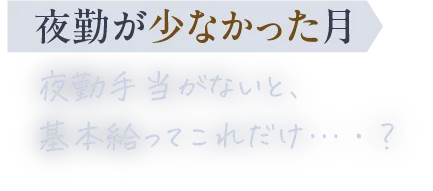
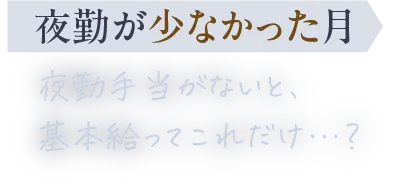
Update client review images and synchronize accessible text

diff --git a/index.html b/index.html
@@ -30,14 +30,14 @@
 
     <!-- 受講生の声：横スクロール / ボタン操作 -->
     <section class="voice" aria-label="仕事を辞めずに、お休みの日から始めた先輩たち">
-      <img src="img/section-02.webp" width="851" height="1694" loading="lazy" alt="実際に、仕事を辞めずにお休みの日から始めた先輩たち">
+      <img src="img/section-02.webp?v=60adb126cd" width="851" height="1694" loading="lazy" alt="実際に、仕事を辞めずにお休みの日から始めた先輩たち">
       <ul class="voice-list" id="voice-list" tabindex="0" aria-label="受講生の声。左右にスクロールできます">
-        <li><img src="img/voice-s1.webp" width="664" height="911" loading="lazy"
+        <li><img src="img/voice-s1.webp?v=dc672df695" width="664" height="911" loading="lazy"
             alt="M.Sさん・40代。看護師歴18年、美容未経験。辞める勇気はなかった。だから、休みの日だけ始めました。病院はそのまま、休日の施術で。施術は月約2回、月収プラス8万円。"></li>
         <li><img src="img/voice-s2.webp" width="664" height="911" loading="lazy"
-            alt="K.Tさん・40代。看護師歴15年、美容未経験。子どもが生まれて、夜勤のないクリニックへ。減った分だけ、土曜日だけの私に。土曜だけの施術で。施術は月約4回、月収プラス12万円。"></li>
-        <li><img src="img/voice-s3.webp" width="664" height="911" loading="lazy"
-            alt="Y.Hさん・50代。看護師歴28年、美容未経験。夜勤はもう体力的に限界だった。50代でも、手に職でもう少しだけ増やせました。訪問看護はそのまま、休日の施術で。施術は月約2回、月収プラス10万円。">
+            alt="K.Tさん・40代。看護師歴15年、美容未経験。子どもが生まれて、夜勤のないクリニックへ。減った分を、土曜日だけでカバー。土曜だけの施術で。施術は月約4回、月収プラス12万円。"></li>
+        <li><img src="img/voice-s3.webp?v=ae3e3c0481" width="664" height="911" loading="lazy"
+            alt="U.Mさん・50代。北海道、訪問看護。看護師歴28年、美容未経験。夜勤はもう体力的に限界だった。50代でも、手に職がもうひとつ増えました。夜勤がつらくなり訪問看護へ。収入は月5万円ダウン。訪問看護はそのまま、休日の施術で。施術は月約2回、月収プラス10万円。">
         </li>
       </ul>
       <div class="voice-nav" hidden>
@@ -59,17 +59,17 @@
           <img src="img/offer-img1.webp" width="851" height="868" loading="lazy"
             alt="メリット1：たっぷり60分なんでも相談。看護師の収入アップに特化したコーチング。収入・働き方・始め方・不安なことまで、あなたの状況に合わせてじっくり相談できます。">
           <div class="sparkle">
-            <img src="img/offer-img2.webp" width="851" height="642" loading="lazy"
-              alt="メリット2：あなたの働き方×収入上げ方を無料診断。今の勤務状況や休日の日数などから、あなたに合った副業の進め方を診断。">
+            <img src="img/offer-img2.webp?v=556deb02f5" width="851" height="642" loading="lazy"
+              alt="メリット2：あなたの働き方×収入の上げ方を無料診断。今の勤務状況や休日の日数などから、あなたに合った副業の進め方を診断。">
             <img class="kira" src="img/kira.webp" width="851" height="643" loading="lazy" alt="" aria-hidden="true">
           </div>
         </div>
       </div>
       <div class="offer-end">
-        <img src="img/offer_03.webp" width="851" height="1449" loading="lazy"
-          alt="美容知識や経験なくても大丈夫！ アートメイクで働くのに必要なのは看護師の国家資格のみ！ 看護師の受講者数1,600人突破。個別面談は、その場で決めなくてもOK、話を聞くだけでもOK、選択肢を知るだけでもOK。勧誘なし、顔出し不要、平日夜・土日OK。">
+        <img src="img/offer_03.webp?v=cbe64580e0" width="851" height="1449" loading="lazy"
+          alt="美容の知識や経験がなくても大丈夫！ アートメイクで働くのに必要なのは看護師の国家資格のみ！ 看護師の受講生数1,600人突破。個別相談は、その場で決めなくてもOK、話を聞くだけでもOK、選択肢を知るだけでもOK。勧誘なし、顔出し不要、平日夜・土日OK。">
         <a class="cta offer-cta" data-link="line" role="link" aria-disabled="true"><img src="img/offer1-cta.webp"
-            width="837" height="321" loading="lazy" alt="無料の個別相談の参加特典。LINEで事例集を受け取る"></a>
+            width="865" height="273" loading="lazy" alt="無料の個別相談の参加特典。LINEで事例集を受け取る"></a>
       </div>
     </section>
 
@@ -79,9 +79,9 @@
         alt="これまでを、振り返ってみてください。毎日、ちゃんと頑張っているのに。看護師の仕事は、きらいじゃない。でも、このままでいいのかな…。">
       <img class="text text1" src="img/section-03-txt1.webp" width="415" height="192" loading="lazy"
         alt="夜勤明けの帰り道。出勤する人とすれ違うの、なんか辛い…。">
-      <img class="text text2" src="img/section-03-txt2.webp" width="433" height="191" loading="lazy"
+      <img class="text text2" src="img/section-03-txt2.webp?v=46cf5f9787" width="398" height="191" loading="lazy"
         alt="夜勤が少なかった月。夜勤手当がないと、基本給ってこれだけ…？">
-      <img class="text text3" src="img/section-03-txt3.webp" width="431" height="188" loading="lazy"
+      <img class="text text3" src="img/section-03-txt3.webp?v=a779238d04" width="431" height="188" loading="lazy"
         alt="子どもと過ごす休みの日。疲れすぎて、子どもに優しくできない…。">
       <img class="text text4" src="img/section-03-txt4.webp" width="479" height="191" loading="lazy"
         alt="定時を過ぎた記録と書類。これ以上、働く時間を増やすのは難しい…。">
@@ -90,8 +90,8 @@
     </section>
 
     <section class="section income" aria-label="看護師の収入について">
-      <img class="base" src="img/section-04.webp" width="851" height="1949" loading="lazy"
-        alt="でも、そう思っているのはアナタの努力不足ではないんです。実は、看護師の収入は、経験を重ねても大きく伸ばしにくい傾向があります。しかもこの金額には夜勤手当や残業代も含まれています。">
+      <img class="base" src="img/section-04.webp?v=65641fa062" width="851" height="1949" loading="lazy"
+        alt="でも、そう感じてしまうのはあなたの努力不足のせいではないんです。実は、看護師の収入は、経験を重ねても大きく伸ばしにくい傾向があります。しかもこの金額には夜勤手当や残業代も含まれています。">
     </section>
 
     <section class="section methods" aria-label="収入アップの方法を考えている方へ">
@@ -100,7 +100,7 @@
     </section>
 
     <section class="section message" aria-label="BIBI MAKE.代表講師からのメッセージ">
-      <img class="base" src="img/section-06.webp" width="851" height="2036" loading="lazy"
+      <img class="base" src="img/section-06.webp?v=9883cf9899" width="851" height="2036" loading="lazy"
         alt="看護師なら資格を活かした副業1択。そこで、その資格を一番活かせる場所がBIBI MAKE. 看護師のためのアートメイクスクール。看護師資格をもうひとつの収入に変える！ BIBI MAKE.代表講師CHISATO。看護師の皆さんが、もっと自由に輝ける場所をつくりたくて、BIBI MAKE.を立ち上げました。">
     </section>
 
@@ -111,12 +111,12 @@
         alt="01 施術できるのは医師と看護師だけ！ アートメイクは医療行為。資格のない人は、この仕事ができません。">
       <img class="card card2" src="img/section-07_01-img2.webp" width="796" height="335" loading="lazy"
         alt="02 美容未経験からでも始められる。必要なのは看護師資格と身につける技術。最短2日で技術習得！">
-      <img class="card card3" src="img/section-07_01-img3.webp" width="796" height="345" loading="lazy"
-        alt="03 1回の施術料が大きい。施術相場は1回約6万円〜。短い時間でもしっかり収入になります。">
+      <img class="card card3" src="img/section-07_01-img3.webp?v=280e6e866c" width="796" height="345" loading="lazy"
+        alt="03 1回の施術料が大きい。施術相場は1回6万円〜。短い時間でもしっかり収入になります。">
     </section>
 
     <section class="section lesson" aria-label="講習の様子と無料相談">
-      <img class="base" src="img/section-07_02.webp" width="851" height="2012" loading="lazy"
+      <img class="base" src="img/section-07_02.webp?v=a5754c5218" width="851" height="2012" loading="lazy"
         alt="まずは、講習の様子を見てください。『最初は詐欺だと思った』という先輩も、この動画を見て、安心してくれました。TOKYO MXで紹介されました！ 2024年7月13日土曜日放送分。東京サロン見学OK。実際の施術環境や雰囲気をご自身で確認できます。">
       <div class="lesson-video">
         <video controls autoplay muted loop playsinline preload="metadata" aria-label="BIBI MAKE. 実際の講習風景">
@@ -132,8 +132,8 @@
 
     <!-- 選ばれる理由 / 3つの自由 / お客様の変化 -->
     <section class="section features" id="features" aria-label="BIBI MAKE.が選ばれる理由">
-      <img class="base" src="img/section-08.webp" width="851" height="3193" loading="lazy"
-        alt="BIBI MAKE.が選ばれる理由。技術だけじゃない。稼ぐ力まで、身に付く。施術の技術と、お客さまに選ばれるための力をセットで教えます。01 独自の技法B-BROW®。02 SNSの配信サポート、集客・マーケティング指導、毎月の事業者向け研修。03 LINEでのデザイン添削、不安なところの再受講、施術できる提携クリニックの紹介まで。">
+      <img class="base" src="img/section-08.webp?v=ccda743fb0" width="851" height="3193" loading="lazy"
+        alt="BIBI MAKE.が選ばれる理由。技術だけじゃない。稼ぐ力まで、身につける。施術の技術と、お客さまに選ばれるための力をセットで教えます。01 独自の技法B-BROW®。02 SNSの配信サポート、集客・マーケティング指導、毎月の事業者向け研修。03 LINEでのデザイン添削、不安なところの再受講、施術できる提携クリニックの紹介まで。">
       <img class="title title1" src="img/section-08-txt1.webp" width="580" height="129" loading="lazy"
         alt="世界でBIBI MAKE.だけの技法">
       <img class="title title2" src="img/section-08-txt2.webp" width="404" height="193" loading="lazy"
@@ -143,36 +143,36 @@
     </section>
 
     <section class="section freedom" aria-label="その先にある3つの自由">
-      <img class="base" src="img/section-09.webp" width="851" height="1445" loading="lazy"
+      <img class="base" src="img/section-09.webp?v=aed3006ffb" width="851" height="1445" loading="lazy"
         alt="その先に、あるのは3つの自由。01 時間の自由！ いつ・どれだけ働くかを自分で決められる。02 お金の自由！ お給料とは別に、自分で稼げる収入がもう1本。03 心の自由！ すり減らさずに、選ばれる喜びを感じながら働ける。仕事はそのまま。でも、選べる未来は増えていく。">
     </section>
 
-    <section class="section customer" aria-label="眉ひとつで変わるお客様の毎日">
-      <img class="base" src="img/section-10_01.webp" width="851" height="1364" loading="lazy"
-        alt="心から『ありがとう』をもらえる。眉ひとつで、お客様の毎日が変わる！ 実は、眉に悩みがある人は約2人に1人。眉の形、眉の量、メイクの手間。毎朝の悩みになっています。眉は、毎日のメイクでいちばん悩みが多いパーツ。だからこそ、アートメイクの技術が求められているんです。">
+    <section class="section customer" aria-label="眉ひとつで変わるお客さまの毎日">
+      <img class="base" src="img/section-10_01.webp?v=af0569bf67" width="851" height="1364" loading="lazy"
+        alt="心から『ありがとう』をもらえる。眉ひとつで、お客さまの毎日が変わる！ 実は、眉に悩みがある人は約2人に1人。眉の形、眉の量、メイクの手間。毎朝の悩みになっています。眉は、毎日のメイクでいちばん悩みが多いパーツ。だからこそ、アートメイクの技術が求められているんです。">
     </section>
 
-    <section class="section result" aria-label="お客様からのありがとうを、心も体も前向きに">
-      <img class="base" src="img/section-10_02.webp" width="851" height="2341" loading="lazy"
-        alt="眉が変わるだけで、顔全体がぱっと垢抜ける。印象の薄かった眉毛が、すっぴんでも浮かないナチュラル眉毛に。毎朝の眉メイクに悩まなくていい。すっぴんでも、汗をかいても、きれいな眉のまま。小さな変化が、お客さまの自信になります。お客様からの『ありがとう！』を、心も体も前向きに！ 心も体も前向きにする仕事を、もうひとつ。">
-      <a class="cta result-cta" data-link="consult" role="link" aria-disabled="true"><img src="img/cta-3.webp"
-          width="837" height="316" loading="lazy" alt="お客様に、心から寄り添える。眉毛も傷あとカバーも学べる。学べることを聞いてみる"></a>
+    <section class="section result" aria-label="お客さまからのありがとうを、心も体も前向きに">
+      <img class="base" src="img/section-10_02.webp?v=736f67e1e4" width="851" height="2341" loading="lazy"
+        alt="眉が変わるだけで、顔全体がぱっと垢抜ける。印象の薄かった眉毛が、すっぴんでも浮かないナチュラル眉毛に。毎朝の眉メイクに悩まなくていい。すっぴんでも、汗をかいても、きれいな眉のまま。小さな変化が、お客さまの自信になります。お客さまからの『ありがとう！』を、心も体も前向きに！ 心も体も前向きにする仕事を、もうひとつ。">
+      <a class="cta result-cta" data-link="consult" role="link" aria-disabled="true"><img src="img/cta-3.webp?v=27dafe0835"
+          width="836" height="316" loading="lazy" alt="お客さまに、心から喜ばれる。眉毛も傷あとカバーも学べる。学べることを聞いてみる"></a>
     </section>
 
     <!-- 仲間のサポート / デビューまで / 先輩の体験記 -->
     <section class="section support" id="support" aria-label="あなたをひとりにしないサポート">
-      <img class="base" src="img/section-11.webp" width="851" height="1875" loading="lazy"
-        alt="BIBI MAKE. あなたをひとりにしない！ 一緒に学ぶのは、みんな同じ看護師さん。夜勤のしんどさも、現場の悩みも、言わなくてもわかり合える仲間です。一緒に頑張る仲間がいる。分からない事も不安な時も、LINEでいつでも聞けます。先生への相談、施術写真の添削、看護師仲間のグループ。">
+      <img class="base" src="img/section-11.webp?v=f59c8489a6" width="851" height="1875" loading="lazy"
+        alt="BIBI MAKE. あなたをひとりにしない！ 一緒に学ぶのは、みんな同じ看護師さん。夜勤のしんどさも、現場の悩みも、言わなくてもわかり合える仲間です。一緒に頑張る仲間がいる。わからない時も不安な時も、LINEでいつでも聞けます。先生への相談、施術写真の添削、看護師仲間のグループ。">
     </section>
 
     <section class="section roadmap" aria-label="はじめてからデビューするまでの5つのステップ">
       <img class="base" src="img/section-12_01.webp" width="851" height="2766" loading="lazy"
         alt="自分のペースで進める。はじめてからデビューするまで。早くデビューする方も、じっくり進める方も。ペースは、あなたに合わせて自由です。たとえば、こんなロードマップも。">
-      <img class="step step1" src="img/section-12_01-img1.webp" width="787" height="427" loading="lazy"
-        alt="STEP 01 授業前。オリエンテーション。働き方とゴールを一緒に決める。講習日を勤務に合わせて調整。">
+      <img class="step step1" src="img/section-12_01-img1.webp?v=454747a364" width="787" height="427" loading="lazy"
+        alt="STEP 01 講習前。オリエンテーション。働き方とゴールを一緒に決める。講習日を勤務に合わせて調整。">
       <img class="step step2" src="img/section-12_01-img2.webp" width="787" height="427" loading="lazy"
         alt="STEP 02 講習2日、1ヶ月目。技術を身につける。連休や有給で受講。道具一式のスターターキット付き。">
-      <img class="step step3" src="img/section-12_01-img3.webp" width="787" height="426" loading="lazy"
+      <img class="step step3" src="img/section-12_01-img3.webp?v=a3ba164804" width="787" height="426" loading="lazy"
         alt="STEP 03 練習期間、2〜4ヶ月目。添削と再受講で練習。写真を送ればLINEで添削。不安なところは、もう一度受講。">
       <img class="step step4" src="img/section-12_01-img4.webp" width="787" height="427" loading="lazy"
         alt="STEP 04 デビュー、5ヶ月目。提携クリニックでデビュー。提携クリニックを紹介。最初はモニター施術で経験を積む。">
@@ -186,8 +186,8 @@
     </section>
 
     <section class="section day" aria-label="MIYAさんの休日副業のモデルケース">
-      <img class="base" src="img/section-13.webp" width="851" height="1867" loading="lazy"
-        alt="モデルケース、休日副業看護師の1日。MIYAさんの休日副業DAYに密着。病院勤務を続けながら、休日1日をアートメイクに使った一例です。9時に提携クリニックへ、10時に1人目のお客さま、12時にランチ、13時に2人目のお客さま、16時に帰宅。施術料合計9万円から材料費・施設等の利用料を引いた、この日の手取りの目安は7万円。月2日の休日副業稼働なら月プラス14万円の収入アップ。">
+      <img class="base" src="img/section-13.webp?v=7b625c60ea" width="851" height="1867" loading="lazy"
+        alt="モデルケース、休日副業看護師の1日。MIYAさんの休日副業DAYに密着。病院勤務を続けながら、休日1日をアートメイクに使った一例です。9時に提携クリニックへ、10時に1人目のお客さま、12時にランチ、13時に2人目のお客さま、16時に帰宅。施術料合計9万円から材料費・施設等の利用料を引いた、この日の手取りの目安は7万円。月2日、休日に副業する場合、月プラス14万円の収入アップ。">
     </section>
 
     <section class="section story story1" aria-label="先輩の体験記：M.Sさん40代">
@@ -198,15 +198,15 @@
     </section>
 
     <section class="section story story2" aria-label="先輩の体験記：K.Tさん40代">
-      <img class="base" src="img/section-14_02.webp" width="851" height="1379" loading="lazy"
-        alt="K.Tさん、40代、東京のクリニック勤務。病院勤務のまま土曜日だけ施術。講習のあとLINEで何度も添削してもらえて、わからないことをすぐ聞ける安心感がありました。子どもとの時間はそのままで、収入は前より増えました。※実際に頂戴した声をもとに作成したイメージ画像です。">
+      <img class="base" src="img/section-14_02.webp?v=2e2c5c2029" width="851" height="1379" loading="lazy"
+        alt="K.Tさん、40代、東京のクリニック勤務。クリニック勤務のまま土曜日だけ施術。講習のあとLINEで何度も添削してもらえて、わからないことをすぐ聞ける安心感がありました。子どもとの時間はそのままで、収入は前より増えました。※実際に頂戴した声をもとに作成したイメージ画像です。">
       <img class="story-title" src="img/section-14_02-txt.webp" width="173" height="640" loading="lazy"
         alt="夜勤をやめて減った収入を、土曜日だけで取り戻せた。">
     </section>
 
-    <section class="section story story3" aria-label="先輩の体験記：U.さん50代">
-      <img class="base" src="img/section-14_03.webp" width="851" height="1603" loading="lazy"
-        alt="U.さん、50代、北海道、看護師歴28年。病院勤務のまま、月2回の休日施術。皮膚ケアを長くやってきた経験が、シミのカバーにそのまま使えました。いまは気持ちがとても楽で、自分の体のために使う時間もできました。※実際に頂戴した声をもとに作成したイメージ画像です。">
+    <section class="section story story3" aria-label="先輩の体験記：U.Mさん50代">
+      <img class="base" src="img/section-14_03.webp?v=34bd4c08d3" width="851" height="1603" loading="lazy"
+        alt="U.Mさん、50代、北海道、看護師歴28年。病院勤務のまま、月2回の休日施術。皮膚ケアを長くやってきた経験が、シミのカバーにそのまま使えました。いまは気持ちがとても楽で、自分の体のために使う時間もできました。※実際に頂戴した声をもとに作成したイメージ画像です。">
       <img class="story-title" src="img/section-14_03-txt.webp" width="191" height="545" loading="lazy"
         alt="28年の経験は、無駄じゃなかった。">
       <a class="cta story-cta" data-link="line" role="link" aria-disabled="true"><img src="img/cta-1.webp" width="837"
@@ -215,7 +215,7 @@
 
     <!-- 無料相談 / 一年後の変化 / 相談特典 -->
     <section class="section consult" id="consult" aria-label="無料相談で確かめてください">
-      <img class="base" src="img/section-15.webp" width="851" height="3180" loading="lazy"
+      <img class="base" src="img/section-15.webp?v=9db5ce9327" width="851" height="3180" loading="lazy"
         alt="私にもできるかも。そう思えた今が。まずは無料相談で確かめてください！ BIBI MAKE.代表講師CHISATOとたっぷり60分。無料相談で分かること：今の勤務でどう始められるか、デビューまでの流れと期間、総額や支払い方法、他のスクールとの違い、不安なことや家族への相談。勧誘なし、顔出し不要、平日夜・土日OK。相談だけでも、今のシフトでできると分かって安心した、やるべきことがはっきりした、総額を先に聞けて家族に説明しやすくなった、という声があります。">
       <img class="consult-title" src="img/section-15-txt.webp" width="819" height="250" loading="lazy" alt="はじめどきです！">
       <a class="cta consult-cta" data-link="line" role="link" aria-disabled="true"><img src="img/cta-1.webp" width="837"
@@ -236,13 +236,13 @@
     </section>
 
     <section class="section gifts" aria-label="無料個別相談の特典">
-      <img class="base" src="img/section-17_02.webp" width="851" height="2381" loading="lazy"
-        alt="さらに、先輩たちの10万円以上の事例を無料プレゼント！ 勧誘なし、顔出し不要、平日夜・土日OK。">
+      <img class="base" src="img/section-17_02.webp?v=59f4e6fd9d" width="851" height="2381" loading="lazy"
+        alt="さらに、先輩たちの月収プラス10万円以上の事例を無料プレゼント！ 勧誘なし、顔出し不要、平日夜・土日OK。">
       <img class="gift gift1" src="img/offer-img1.webp" width="851" height="868" loading="lazy"
         alt="メリット1：たっぷり60分なんでも相談。看護師の収入アップに特化したコーチング。収入・働き方・始め方・不安なことまで、あなたの状況に合わせてじっくり相談できます。">
       <div class="gift gift2 sparkle">
-        <img src="img/offer-img2.webp" width="851" height="642" loading="lazy"
-          alt="メリット2：あなたの働き方×収入上げ方を無料診断。今の勤務状況や休日の日数などから、あなたに合った副業の進め方を診断。">
+        <img src="img/offer-img2.webp?v=556deb02f5" width="851" height="642" loading="lazy"
+          alt="メリット2：あなたの働き方×収入の上げ方を無料診断。今の勤務状況や休日の日数などから、あなたに合った副業の進め方を診断。">
         <img class="kira" src="img/kira.webp" width="851" height="643" loading="lazy" alt="" aria-hidden="true">
       </div>
       <a class="cta gifts-cta" data-link="line" role="link" aria-disabled="true"><img src="img/cta-1.webp" width="837"
@@ -250,7 +250,7 @@
     </section>
     <!-- よくある質問 / 講師からのメッセージ -->
     <section class="section faq" id="faq" aria-label="よくある質問">
-      <img class="base" src="img/faq.webp" width="851" height="1797" loading="lazy"
+      <img class="base" src="img/faq.webp?v=a84990d4fb" width="851" height="1797" loading="lazy"
         alt="よくある質問。今の仕事を辞めなくても受講できますか？ はい。受講生の多くは働きながら連休や有給で受講し、デビュー後も休みの日だけ施術しています。美容の経験がなくても大丈夫ですか？ 大丈夫です。受講生のほとんどが美容未経験で、講習後もLINE添削と再受講で練習できます。休みの日だけでデビューできますか？ できます。提携クリニックの紹介までサポートします。費用はいくらですか？ コースによって異なり、スクール以外の費用も含めて無料相談で総額をお伝えします。年齢は関係ありますか？ 関係ありません。20代から50代以上まで受講しています。">
     </section>
 
@@ -273,7 +273,7 @@
   </main>
   <aside class="float-cta" hidden inert aria-hidden="true" aria-label="LINEで事例集を受け取る">
     <a class="cta" data-link="line" role="link" aria-disabled="true">
-      <img src="img/float-cta.webp" width="836" height="323" alt="先輩の始まり方がわかる。個別相談に参加して、副業で月収プラス10万円以上の事例集をプレゼント。LINEで事例集を受け取る。">
+      <img src="img/float-cta.webp?v=3112d01902" width="836" height="381" alt="先輩の始め方がわかる。個別相談に参加して、副業で月収プラス10万円以上の事例集をプレゼント。LINEで事例集を受け取る。">
     </a>
   </aside>
 </body>
